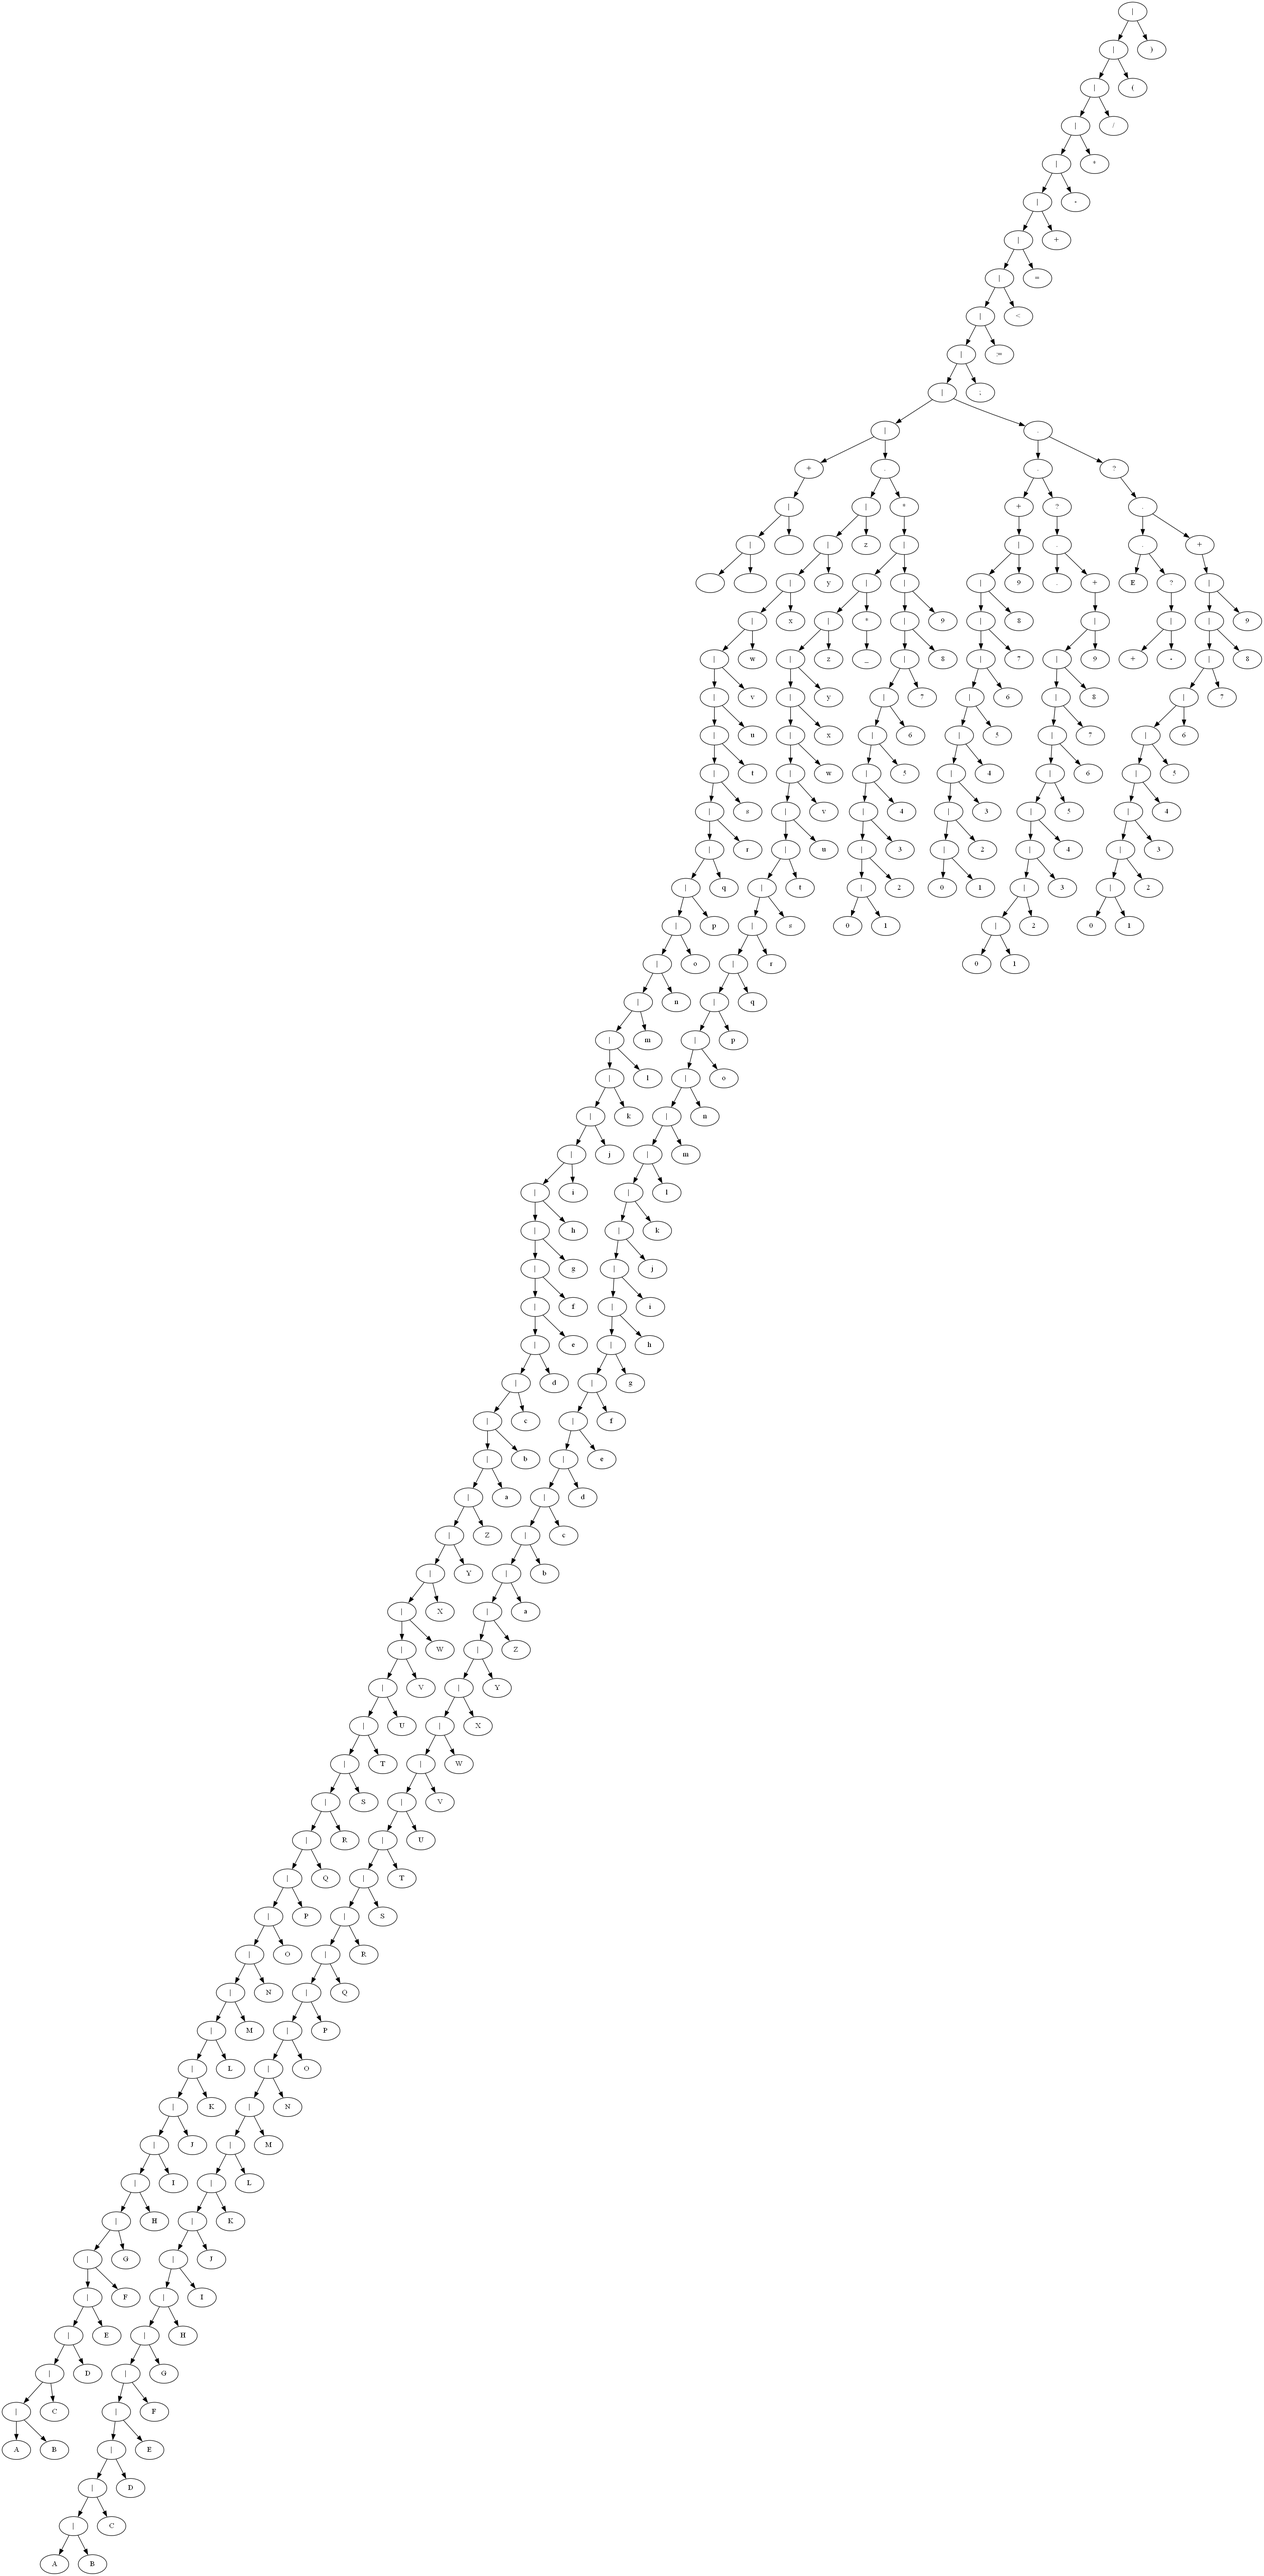
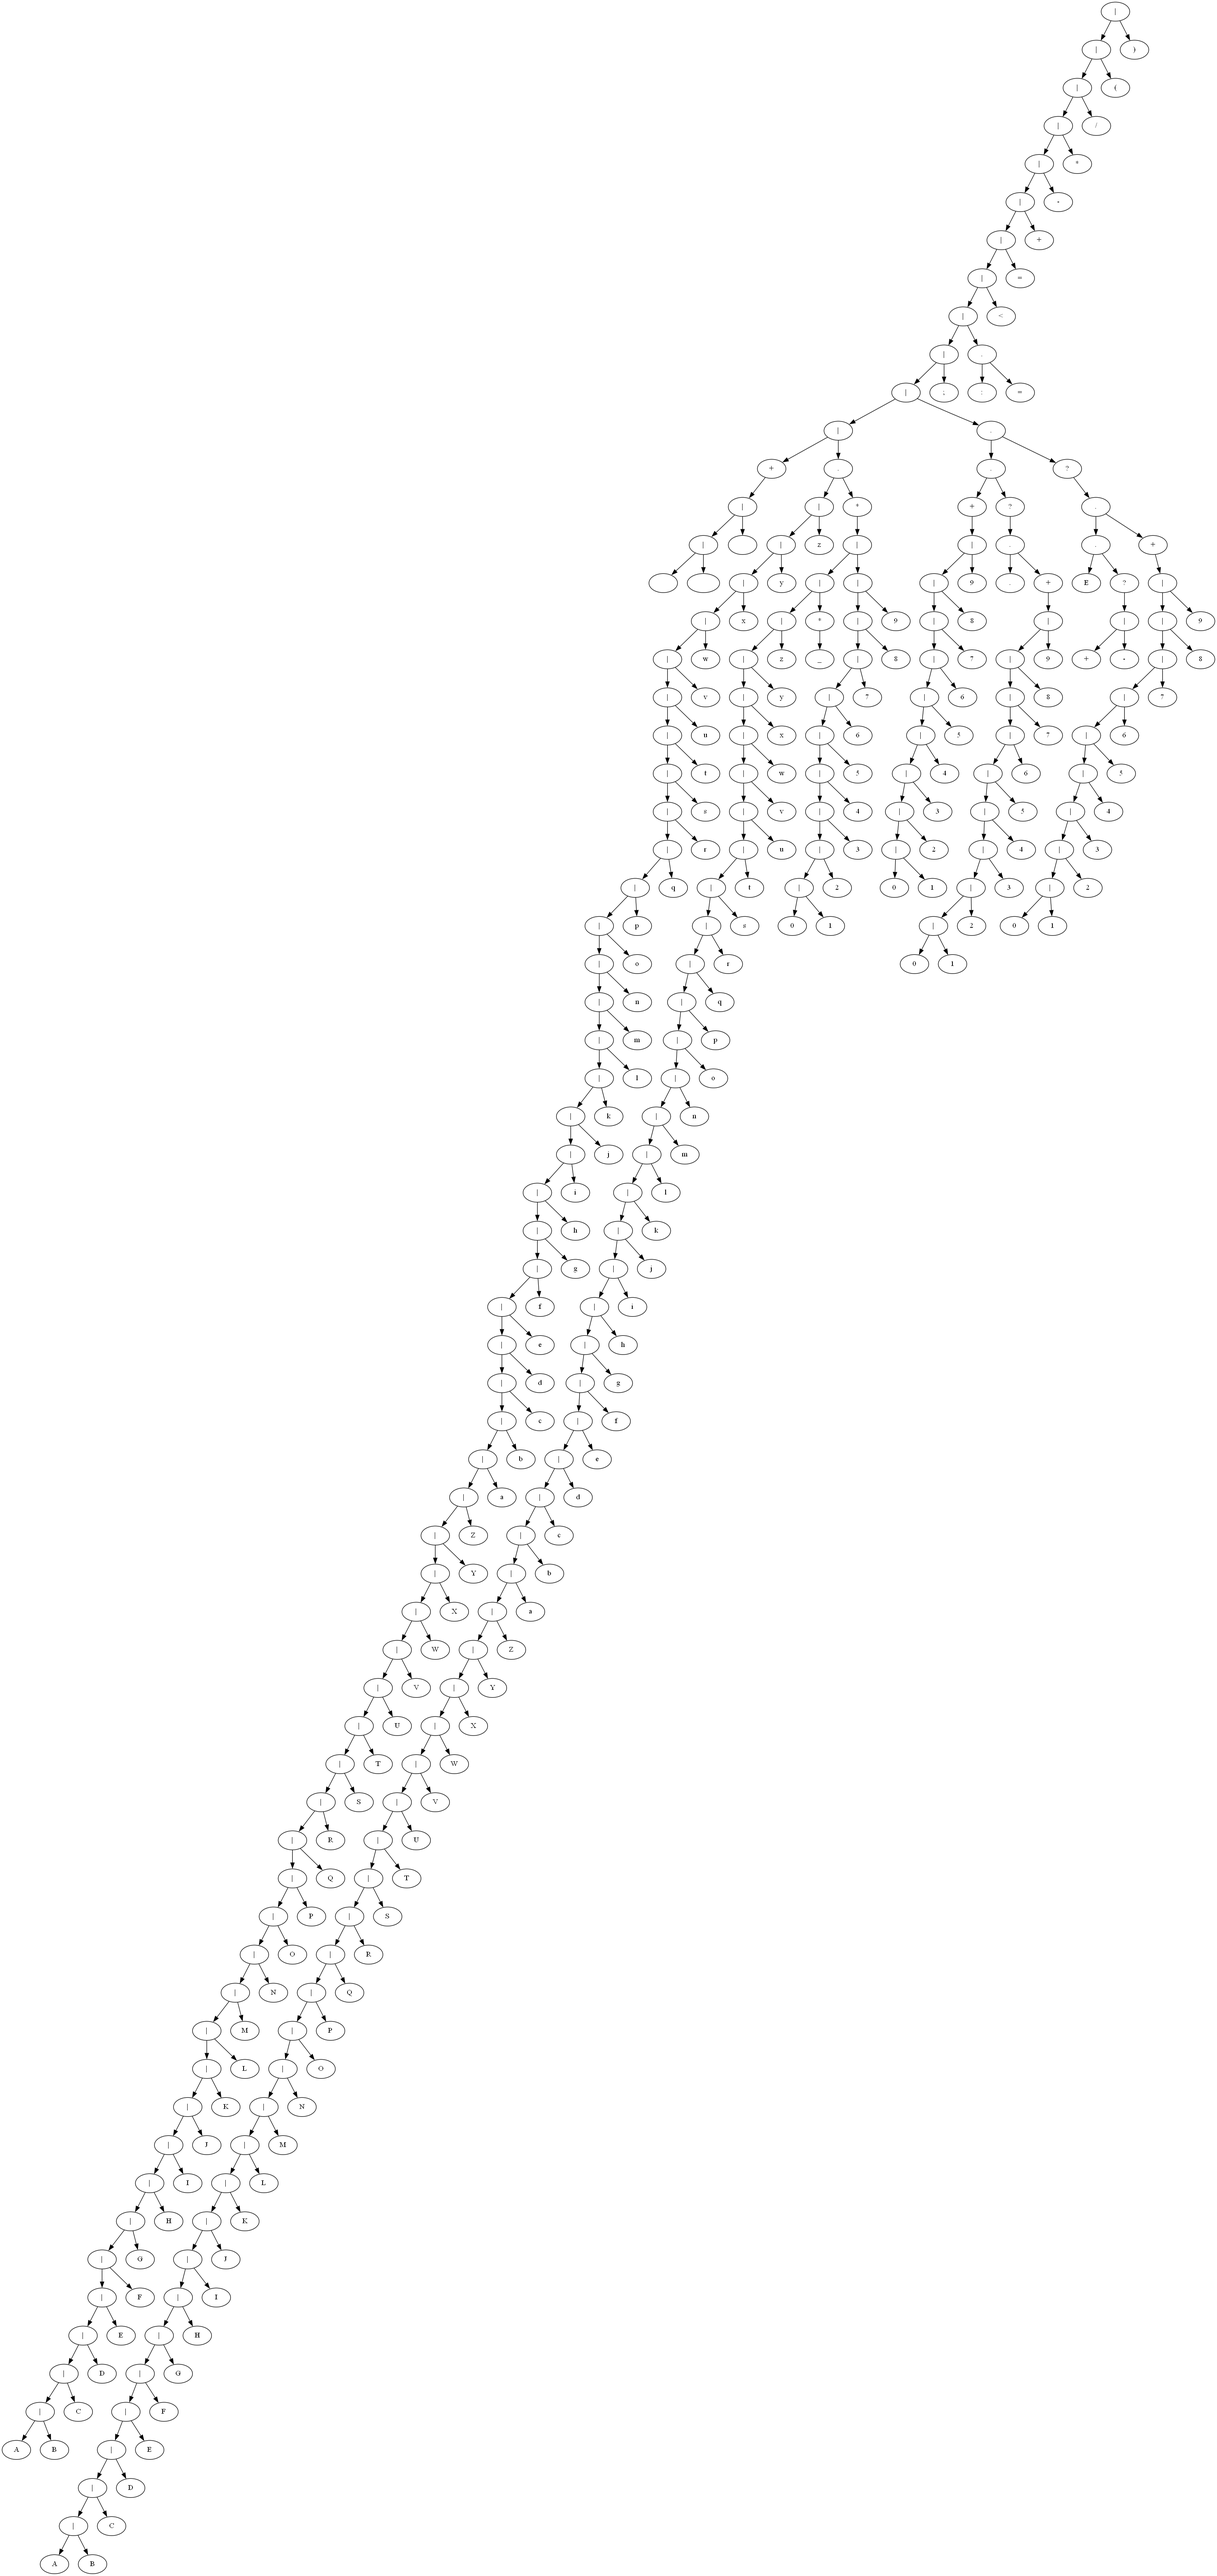
Cambios extra

diff --git a/YALex_reader2.py b/YALex_reader2.py
@@ -108,7 +108,6 @@ while '\n' in content:
     content = content[:find(content, '\n')] + \
         " " + content[find(content, '\n') + 1:]
 
-
 alfabeto_minusculas = 'a|b|c|d|e|f|g|h|i|j|k|l|m|n|o|p|q|r|s|t|u|v|w|x|y|z'
 alfabeto_mayusculas = 'A|B|C|D|E|F|G|H|I|J|K|L|M|N|O|P|Q|R|S|T|U|V|W|X|Y|Z'
 numeros = '0|1|2|3|4|5|6|7|8|9'
@@ -222,6 +221,49 @@ def my_replace(original_str, old_substring, new_substring):
 arr = ['(', ')', '[', ']', '{', '}', ',', ';', ':', '+', '-',
        '*', '/', '%', '=', '<', '>', '!', '&', '|', '^', '~', ' ']
 
+
+def expand_range2(range_str):
+    expanded_str = ""
+    while find(range_str, "-") != -1:
+        index = find(range_str, "-")
+        # i = range(ord(range_str[index-2])+1, ord(range_str[index+2])+1)
+        for j in range(ord(range_str[index-2]), ord(range_str[index+2])+1):
+            # si j es final de linea, solo se agrega el caracter, sino agregar el caracter y |
+            if j == ord(range_str[index+2]):
+                expanded_str += chr(j)
+            else:
+                expanded_str += chr(j) + "|"
+        if range_str[index+4] == "]":
+            range_str = range_str[:index-3] + \
+                expanded_str + range_str[index+4:]
+        else:
+            range_str = range_str[:index-3] + \
+                expanded_str + '|' + range_str[index+4:]
+        expanded_str = ""
+    return range_str
+
+# function to validate if '-' is between two letters or numbers or if it is a simbol in the string
+
+
+def validate_range(range_str):
+    for i in range(len(range_str)):
+        if range_str[i] == "-":
+            if is_letter(range_str[i-2]) and is_letter(range_str[i+2]):
+                continue
+            elif is_digit(range_str[i-2]) and is_digit(range_str[i+2]):
+                continue
+            else:
+                return False
+    return True
+
+
+for key, value in variables.items():
+    if validate_range(value):
+        value = expand_range2(value)
+        variables[key] = value
+
+print(variables)
+
 # funcion para reemplazar una subcadena por otra en un string. Se utiliza para buscar dentro del valor de una variable
 # si existe una variable y reemplazarla por su valor
 
@@ -260,6 +302,7 @@ for key, value in variables.items():
     variables[key] = value
     newVariables[key] = value
 
+
 # reemplazar los rangos de los valores por la lista que representa ese rango
 for key, value in newVariables.items():
     if find3(value, "'A'-'Z''a'-'z'"):
@@ -288,6 +331,7 @@ for key, value in newVariables.items():
     if find3(value, ']'):
         value = my_replace(value, ']', ')')
     newVariables[key] = value
+
 
 OPERADORES2 = [EPSILON, CONCAT, UNION, STAR, QUESTION,
                PLUS, RIGHT_PARENTHESIS]
@@ -349,6 +393,7 @@ def validate_concatenation(value):
 for key, value in newVariables.items():
     newVariables[key] = validate_concatenation(value)
 
+
 # para cada token en la lista, validar si existe una variable que tenga el mismo nombre y reemplazarla por su valor
 new_rule_tokens = []
 for rule in rule_tokens:
@@ -370,16 +415,13 @@ for rule in new_rule_tokens:
 
 # print(rule_token_regex)
 
-# rule_token_regex = validate_concatenation(rule_token_regex)
-# print(rule_token_regex)
-
 # clase Simbolo para representar cada simbolo de la cadena y saber si es un operador o no
 
 
 class Simbolo:
     def __init__(self, simbolo, is_operator=False):
         self.val = simbolo
-        # self.id = ord(simbolo)
+        self.id = ord(simbolo)
         self.is_operator = is_operator
 
 
@@ -420,7 +462,12 @@ def convert_to_Simbolo2(string):
             res.append(Simbolo(array.pop(0)))
             array.pop(0)
         elif char == '"':
-            res.append(Simbolo(array.pop(0) + array.pop(0)))
+            res.append(Simbolo(LEFT_PARENTHESIS, True))
+            res.append(Simbolo(array.pop(0)))
+            res.append(Simbolo(CONCAT, True))
+            res.append(Simbolo(array.pop(0)))
+            res.append(Simbolo(RIGHT_PARENTHESIS, True))
+            # res.append(Simbolo(array.pop(0) + array.pop(0)))
             array.pop(0)
         elif char in OPERADORES:
             res.append(Simbolo(char, True))
@@ -549,10 +596,10 @@ def show_tree(postfix, nombre):
     dot.render('arboles/' + nombre, view=False)
 
 
-# aplicar la funcion show_tree a cada variable
-print('Arboles de expresiones regulares')
+# # aplicar la funcion show_tree a cada variable
+# print('Arboles de expresiones regulares')
 for key, value in definicion_regular_postfix.items():
     show_tree(value, key)
 
-# aplicar la funcion show_tree a los tokens
+# # aplicar la funcion show_tree a los tokens
 show_tree(rule_token_regex_postfix, 'rule_token_regex')
